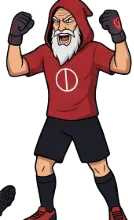
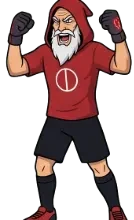
Play Penalty: Home on the start screen, no scroll, fight-card picker, clearer mute
- Owner: 'there is no home button in the start page'. The wizard button now
  stays on the start screen as a labelled Home pill; the footer word went.
- Owner: 'i hate to scroll on that beginning page'. One note line, the four
  modes in a 2x2 grid, shorter buttons on short phones: fits 360x640.
- Owner: 'a crazier selection picture'. Ten and The Wizard roar on their
  cards, fire behind Ten, arcane gold and violet behind The Wizard, and a
  spinning gold aura round the one picked (still under reduced motion).
- kw-roar.webp: erased a stray 342px blob by his feet. Sprite version 13.
- Mute on the pitch: bigger, gold ring, red ring when muted.

Changed region(s): [[0.0, 0.8182, 0.1194, 0.9818]]

diff --git a/public/penalty.html b/public/penalty.html
@@ -101,7 +101,11 @@ svg.layer{position:absolute;inset:0;width:100%;height:100%;overflow:visible;poin
 .score b{font:italic 800 18px/1 "Roboto Condensed",sans-serif;min-width:14px;text-align:center}
 .score .who{font-size:12px;color:var(--soft);max-width:30vw;overflow:hidden;text-overflow:ellipsis;white-space:nowrap}
 #exit{position:absolute;left:12px;top:calc(86px + env(safe-area-inset-top));z-index:10;width:36px;height:36px;display:grid;place-items:center;border-radius:50%;border:1px solid var(--line);background:#0d0d0fcc;color:#F2F1F0}
-#app:has(#sheet.on) #exit{display:none}
+/* HOME ON THE START SCREEN (owner, 13 Oct 2026: "there is no home button in the start
+   page"). It used to hide under every sheet; now it stays, and says what it is. */
+#exit span{display:none;font:800 13px "Plus Jakarta Sans",system-ui,sans-serif}
+#app:has(#sheet.on) #exit{width:auto;text-decoration:none;padding:0 13px 0 5px;gap:6px;display:flex;align-items:center;border-radius:99px;border-color:var(--gold)}
+#app:has(#sheet.on) #exit span{display:inline}
 #exit:focus-visible{outline:2px solid var(--gold);outline-offset:2px}
 #tag{position:absolute;top:calc(86px + env(safe-area-inset-top));left:50%;transform:translateX(-50%);padding:8px 18px 7px;border-radius:99px;background:#0d0d0fe0;border:1px solid var(--line);font:italic 800 18px/1 "Roboto Condensed",sans-serif;letter-spacing:.12em;color:#F2F1F0;white-space:nowrap;z-index:6;pointer-events:none}
 #tag:empty{display:none}
@@ -147,8 +151,10 @@ svg.layer{position:absolute;inset:0;width:100%;height:100%;overflow:visible;poin
 #spellbox span{font:italic 800 11px/1 "Roboto Condensed",sans-serif;letter-spacing:.14em;color:var(--gold)}
 #spellbox b{position:relative;width:64px;height:7px;border-radius:99px;background:#ffffff1a;overflow:hidden}
 #spellbox i{position:absolute;inset:0;background:linear-gradient(90deg,var(--red),var(--gold));transform-origin:0 50%;transform:scaleX(0);transition:transform .4s cubic-bezier(.2,.9,.25,1)}
-#snd{position:absolute;right:14px;bottom:calc(14px + env(safe-area-inset-bottom));z-index:7;width:42px;height:42px;display:grid;place-items:center;border-radius:50%;border:1px solid var(--line);background:#0d0d0fcc;color:#F2F1F0;cursor:pointer}
-#snd[aria-pressed="false"]{color:var(--soft)}
+/* Mute where a thumb finds it (owner, 13 Oct 2026: "put a mute on the game page" - the
+   dark grey one was not seen). Gold ring and a bright icon; red when muted. */
+#snd{position:absolute;right:14px;bottom:calc(14px + env(safe-area-inset-bottom));z-index:7;width:48px;height:48px;display:grid;place-items:center;border-radius:50%;border:2px solid var(--gold);background:#0d0d0fe6;color:#F2F1F0;cursor:pointer;box-shadow:0 4px 14px #0008}
+#snd[aria-pressed="false"]{color:#F2F1F0;border-color:var(--red)}
 #snd:focus-visible{outline:2px solid var(--gold);outline-offset:2px}
 /* the legendary orb: charge ring when ready; armed = gold core, racing ring, arcs, one shockwave */
 #cast{position:absolute;right:16px;bottom:calc(18% + env(safe-area-inset-bottom));z-index:7;width:64px;height:64px;padding:0;border:0;border-radius:50%;display:grid;place-items:center;isolation:isolate;cursor:pointer;color:#F2B84B;background:radial-gradient(circle at 35% 30%,#4a3410,#121114 68%)}
@@ -240,9 +246,24 @@ svg.layer{position:absolute;inset:0;width:100%;height:100%;overflow:visible;poin
 input.name{width:100%;height:50px;border-radius:999px;border:1px solid var(--line);background:var(--bg);color:var(--text);padding:0 18px;font:inherit;font-size:16px;margin-bottom:4px}
 .pick{display:grid;grid-template-columns:1fr 1fr;gap:10px;margin:4px 0 6px}
 .pick button{position:relative;display:flex;flex-direction:column;align-items:center;gap:6px;padding:10px 6px 9px;border-radius:16px;border:1px solid var(--line);background:var(--card2);color:var(--soft);font:italic 800 14px/1 "Roboto Condensed",sans-serif;letter-spacing:.12em;cursor:pointer;transition:transform .15s,border-color .15s}
-.pick button img{height:86px;transition:transform .25s cubic-bezier(.3,1.6,.5,1)}
-.pick button.on{border-color:var(--red);color:var(--text);box-shadow:0 0 0 1px var(--red)}
-@media(max-height:700px){.pick button img{height:60px}.btn{height:44px}#sheet h2{font-size:23px}}
+.pick button img{position:relative;z-index:1;height:96px;filter:drop-shadow(0 6px 10px #000b) grayscale(.55) brightness(.75);transition:transform .25s cubic-bezier(.3,1.6,.5,1),filter .25s}
+.pick button span{position:relative;z-index:1;font-size:17px;letter-spacing:.06em}
+.pick button{overflow:hidden;isolation:isolate}
+/* The fight-card look (owner: "a crazier selection picture"): each fighter in their own
+   light - fire for Ten, arcane gold and violet for The Wizard - and the picked one
+   lit up, roaring, with a spinning aura round the card. */
+.pick button::before{content:"";position:absolute;inset:0;z-index:0;opacity:.35;transition:opacity .25s}
+.pick .c-ten::before{background:radial-gradient(120% 80% at 50% 105%,#ff7a1a 0%,#E63946 38%,#3a0a10 70%,transparent 85%)}
+.pick .c-wizard::before{background:radial-gradient(120% 80% at 50% 105%,#F2B84B 0%,#8a3cff 42%,#1a0b33 72%,transparent 86%)}
+.pick button.on::before{opacity:1;animation:pwflare 1.6s ease-in-out infinite alternate}
+.pick button.on img{filter:drop-shadow(0 0 14px #fff6) drop-shadow(0 8px 12px #000c)}
+.pick button.on{border-color:transparent;color:#fff;box-shadow:0 0 0 2px var(--gold),0 0 26px #F2B84B66}
+.pick button.on::after{content:"";position:absolute;inset:-40%;z-index:-1;background:conic-gradient(from 0deg,transparent 0 70%,#F2B84B 80%,transparent 90%);animation:pwspin 2.4s linear infinite}
+@keyframes pwflare{from{filter:brightness(.9) saturate(1)}to{filter:brightness(1.25) saturate(1.3)}}
+@keyframes pwspin{to{transform:rotate(1turn)}}
+@media (prefers-reduced-motion:reduce){.pick button.on::before,.pick button.on::after{animation:none}}
+@media(max-height:700px){.pick button img{height:66px}.btn{height:42px;margin-top:6px}#sheet h2{font-size:23px}}
+@media(max-height:620px){.pick button img{height:52px}#sheet p.credit{display:none}}
 .pick button.on img{transform:scale(1.08) translateY(-2px)}
 .tips{margin-top:14px;padding-top:12px;border-top:1px solid var(--line)}
 .tips:empty{display:none}
@@ -305,7 +326,7 @@ input.name{width:100%;height:50px;border-radius:999px;border:1px solid var(--lin
   <div id="tag"></div><div id="combo"></div>
   <div id="promo" aria-hidden="true"></div>
   <div id="vs" aria-hidden="true"><div class="vl"><i></i><b></b><small></small></div><div class="vx">VS<span class="vm"></span><em class="vh"></em></div><div class="vr"><i></i><b></b><small></small></div><u class="vt">TAP TO KICK OFF</u></div>
-  <a id="exit" href="/" aria-label="Soccerwizard home"><img src="/penalty/wiz-64.webp?v=12" alt="" width="26" height="26"></a>
+  <a id="exit" href="/" aria-label="Soccerwizard home"><img src="/penalty/wiz-64.webp?v=12" alt="" width="26" height="26"><span>Home</span></a>
   <div id="hint"></div>
   <div id="coach" role="status"><img src="/penalty/kw-taunt.webp?v=12" alt=""><p></p></div><i id="ghost"></i>
   <div id="pts"></div>
@@ -515,7 +536,7 @@ var K={x:0,y:0.85,rot:0,img:"k-set.webp",flip:1,bob:0,sq:1};       // keeper, on
 var S={x:-0.72,z:-1.25,img:"s-stand.webp"};                       // shooter, behind the ball
 var B={x:0,y:0.11,z:0,rot:0,vis:1,alpha:1,fly:false};                      // ball
 /* the art version: bump when sprites are replaced, so no browser keeps the old ones */
-var SPV="12";
+var SPV="13";
 function setImg(el,f){if(el.getAttribute("data-f")!==f){el.setAttribute("data-f",f);el.src="/penalty/"+f+"?v="+SPV;}}
 function place(){
   var k=$("keeper"),kp=P(K.x,K.y,GOAL.z),kh=KH[file(K.img)]*kp.s,kim=IMG[file(K.img)],ar=kim&&kim.naturalWidth?kim.naturalWidth/kim.naturalHeight:1;
@@ -1061,8 +1082,8 @@ function shareSheet(text,url,where){
 
 /* Ten or The Wizard: who you play as. The opponent is the other one. */
 function charPicker(){var box=el("div","pick");
-  [["ten","TEN","/penalty/k-set.webp?v="+PWV()],["wizard","THE WIZARD","/penalty/kw-set.webp?v="+PWV()]].forEach(function(c){
-    var b=el("button",PW.char===c[0]?"on":"");b.type="button";var i=el("img");i.src=c[2];i.alt="";b.appendChild(i);b.appendChild(el("span",null,c[1]));
+  [["ten","TEN","/penalty/k-roar.webp?v="+PWV()],["wizard","THE WIZARD","/penalty/kw-roar.webp?v="+PWV()]].forEach(function(c){
+    var b=el("button",(PW.char===c[0]?"on ":"")+"c-"+c[0]);b.type="button";var i=el("img");i.src=c[2];i.alt="";b.appendChild(i);b.appendChild(el("span",null,c[1]));
     b.addEventListener("click",function(){PW.setChar(c[0]);PW.fx.buzz(10);box.querySelectorAll("button").forEach(function(x){x.classList.toggle("on",x===b);});});box.appendChild(b);});
   return box;}
 /* THE FUNNEL (owner: "our selling point is picking games for people and
@@ -1301,20 +1322,19 @@ function daily(){var outs=[],day=null,i=0;PW.setSolo(false);PW.newBoard("The Wiz
 window.PWHome=function(){home();};
 function home(){
   var lv=PW.levelOf(PW.xp),nx=[3,5,8].filter(function(x){return x>lv;})[0],best=0;try{best=+localStorage.getItem("pw.best")||0;}catch(e){}
+  /* One screen, no scroll (owner, 13 Oct 2026: "i hate to scroll on that beginning page"). */
   var nodes=[F.el("h2",null,"Play Penalty"),
-    F.el("p","note","Level "+lv+" · "+PW.xp.toLocaleString("en")+" pts"),
-    F.el("p",null,PW.trailFor(lv).name.charAt(0).toUpperCase()+PW.trailFor(lv).name.slice(1)+" trail"+(nx?", a new one at level "+nx:"")+"."+(best?" Best run: "+best+".":"")+" No money involved. Pick your player."),F.charPicker(),
+    F.el("p","note","Level "+lv+" · "+PW.xp.toLocaleString("en")+" pts"+(nx?" · new trail at level "+nx:"")+(best?" · best run "+best:"")),
+    F.charPicker(),
     /* The one that always works comes first (owner: "there is no play
        against computer" - it sat below the fold of the sheet on a phone). */
     F.btn("Play the computer","red",function(){F.closeSheet();F.practice();}),
     F.row(F.btn("Ranked","ghost",function(){F.closeSheet();F.survival();}),F.btn("Leaderboard","ghost",function(){F.closeSheet();F.leaderboard("league");})),
-    F.btn("Face today's Wizard Keeper","ghost",function(){F.closeSheet();daily();}),
-    F.btn("Challenge a friend","ghost",function(){F.closeSheet();F.challenger();})];
+    F.row(F.btn("Wizard Keeper","ghost",function(){F.closeSheet();daily();}),F.btn("Challenge a friend","ghost",function(){F.closeSheet();F.challenger();}))];
   var foot=F.el("div","sfoot"),how=F.el("button",null,"How to play"),mute=F.el("button",null,PW.muted?"Sound off":"Sound on");how.type=mute.type="button";
   how.addEventListener("click",function(){PW.coachReset();F.closeSheet();F.practice();});
   mute.addEventListener("click",function(){PW.setMuted(!PW.muted);mute.textContent=PW.muted?"Sound off":"Sound on";});
-  var site=F.el("button",null,"Soccerwizard home");site.type="button";site.addEventListener("click",function(){location.href="/";});
-  foot.appendChild(how);foot.appendChild(mute);foot.appendChild(site);
+  foot.appendChild(how);foot.appendChild(mute);
   var credit=F.el("p","credit");credit.innerHTML='Crowd sounds by Gregor Quendel, <a href="https://creativecommons.org/licenses/by/4.0/" rel="noopener" target="_blank">CC BY 4.0</a>';
   nodes.push(foot,credit);
   F.sheet(nodes,true);

diff --git a/test/penalty-html.test.js b/test/penalty-html.test.js
@@ -196,7 +196,7 @@ test("the scoreboard names fit a phone", () => {
 
 test("Play the computer is the first button on the home screen", () => {
   const home = grabFn("home");
-  const i = home.indexOf('"Play the computer"'), j = home.indexOf("Face today's Wizard Keeper"), k = home.indexOf('"Challenge a friend"');
+  const i = home.indexOf('"Play the computer"'), j = home.indexOf('"Wizard Keeper"'), k = home.indexOf('"Challenge a friend"');
   assert.ok(i > 0 && i < j && i < k, "first, above the fold on a phone");
 });
 
@@ -608,7 +608,10 @@ test("release step 2 (owner, 9 Oct 2026): Play Penalty in the phone bar with a j
 
 test("owner, 9 Oct 2026: a way back to the site on every screen; the challenge result counts what the board counts", () => {
   assert.match(html, /<a id="exit" href="\/" aria-label="Soccerwizard home"><img src="\/penalty\/wiz-64\.webp\?v=/, "the way out shows where it goes");
-  assert.match(html, /"Soccerwizard home"\);site\.type="button"/);
+  /* owner, 13 Oct 2026: the start screen shows a labelled Home button up top, so the
+     footer word went. */
+  assert.match(html, /<span>Home<\/span><\/a>/);
+  assert.match(html, /#app:has\(#sheet\.on\) #exit span\{display:inline\}/);
   /* owner, 9 Oct 2026: duels replace blind kicks - a challenge opens with one
      sealed shot, never a pretend match against the computer */
   assert.match(grabFn("challenger"), /api\("POST","duel_new",\{device:PW\.DEV,name:name,/);
@@ -620,9 +623,11 @@ test("owner, 9 Oct 2026: every end-of-game sheet has a way back to the game menu
   assert.match(html, /F\.sheet\(nodes,true\);/, "the menu itself does not offer itself");
 });
 
-test("the home menu fits a short phone; the logo button steps aside while a sheet is open", () => {
-  assert.match(html, /@media\(max-height:700px\)\{\.pick button img\{height:60px\}\.btn\{height:44px\}/);
-  assert.match(html, /#app:has\(#sheet\.on\) #exit\{display:none\}/);
+test("the home menu fits a short phone with no scroll; Home stays up top while a sheet is open", () => {
+  /* owner, 13 Oct 2026: "i hate to scroll on that beginning page", "there is no home button". */
+  assert.match(html, /@media\(max-height:700px\)\{\.pick button img\{height:66px\}\.btn\{height:42px;margin-top:6px\}/);
+  assert.match(html, /@media\(max-height:620px\)\{\.pick button img\{height:52px\}/);
+  assert.doesNotMatch(html, /#app:has\(#sheet\.on\) #exit\{display:none\}/, "Home must not hide on the start screen");
 });
 
 test("batch 1 (owner, 9 Oct 2026): Again first, who to pass next, a new best, near misses play slow, challenge back", () => {
